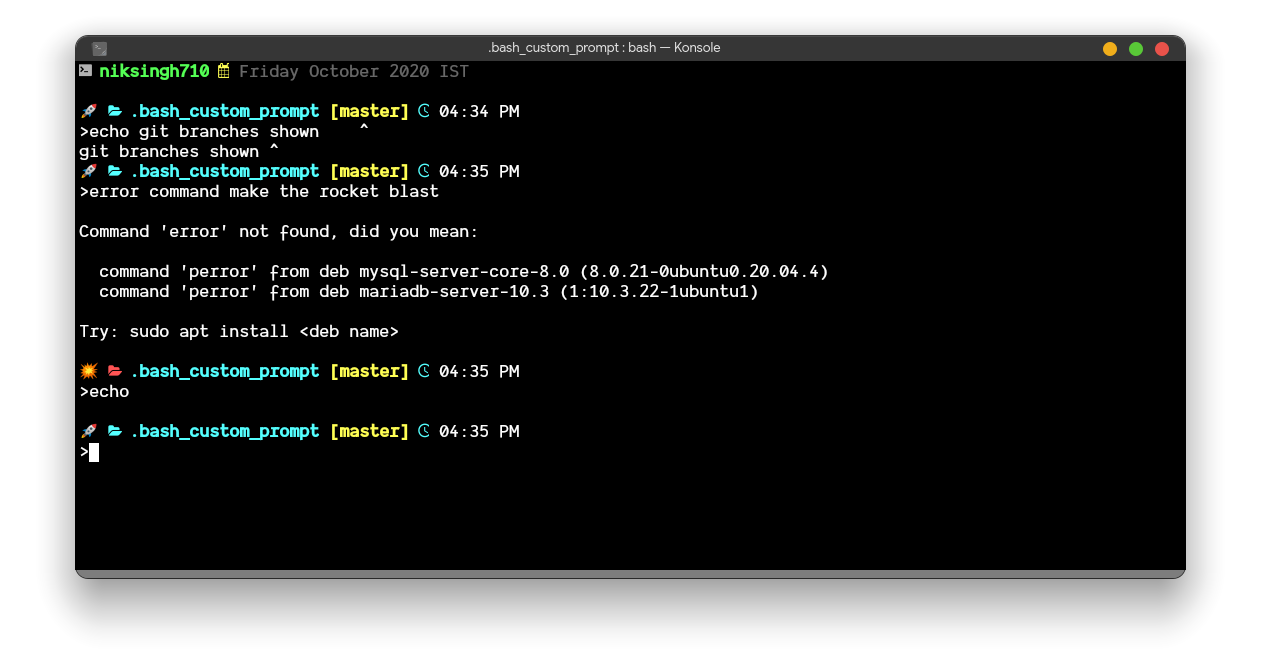
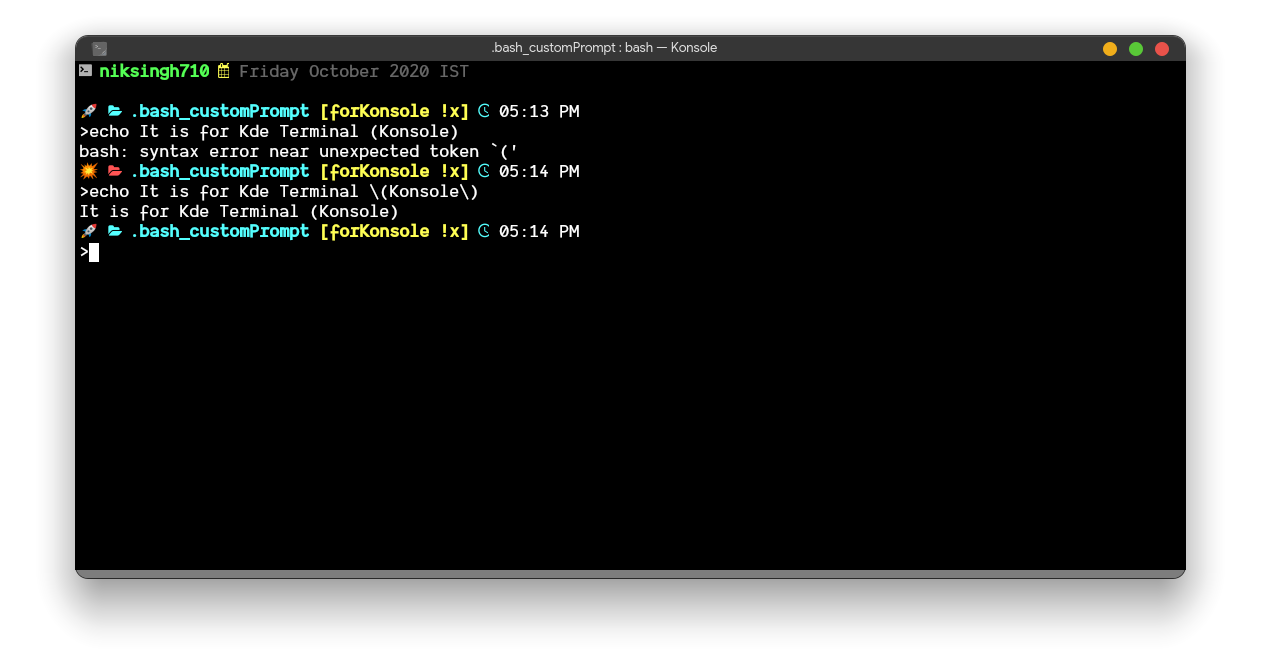
new Branch
as Kde Konsole Does not show all Character it is a bit update

diff --git a/README.md b/README.md
@@ -8,9 +8,9 @@ Simple Bash Ps1 Variable Editing to make it look a bit nice.
 
 # Images
 
-![Image 1](https://github.com/niksingh710/bash_Prompt/blob/main/assets/images/1.png?raw=true)
+![Image 1](https://github.com/niksingh710/bash_Prompt/blob/forKonsole/assets/images/1.png?raw=true)
 
-![Image 1](https://github.com/niksingh710/bash_Prompt/blob/main/assets/images/2.png?raw=true)
+![Image 1](https://github.com/niksingh710/bash_Prompt/blob/forKonsole/assets/images/2.png?raw=true)
 
 # Requirements
 
